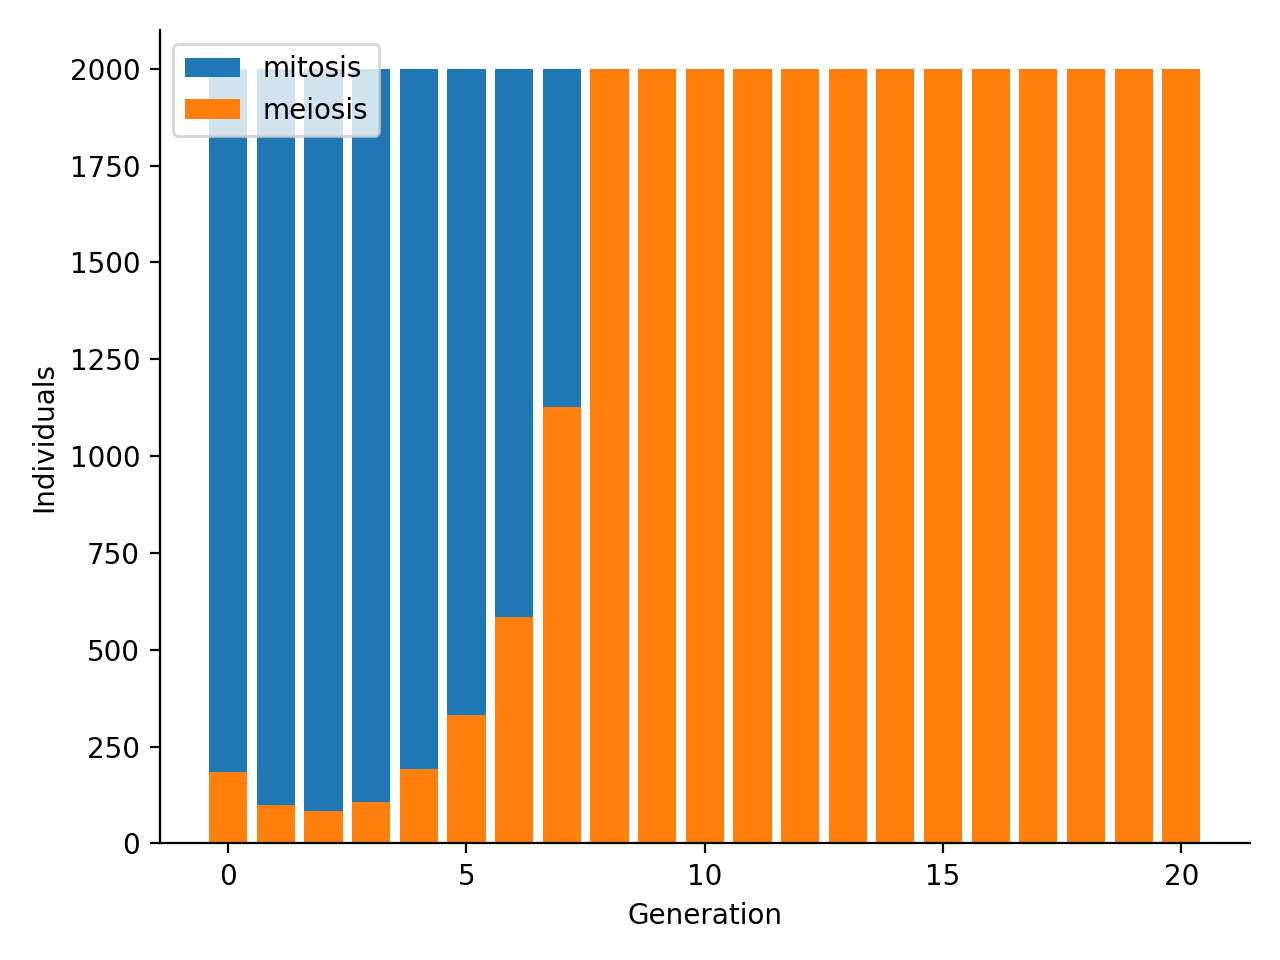
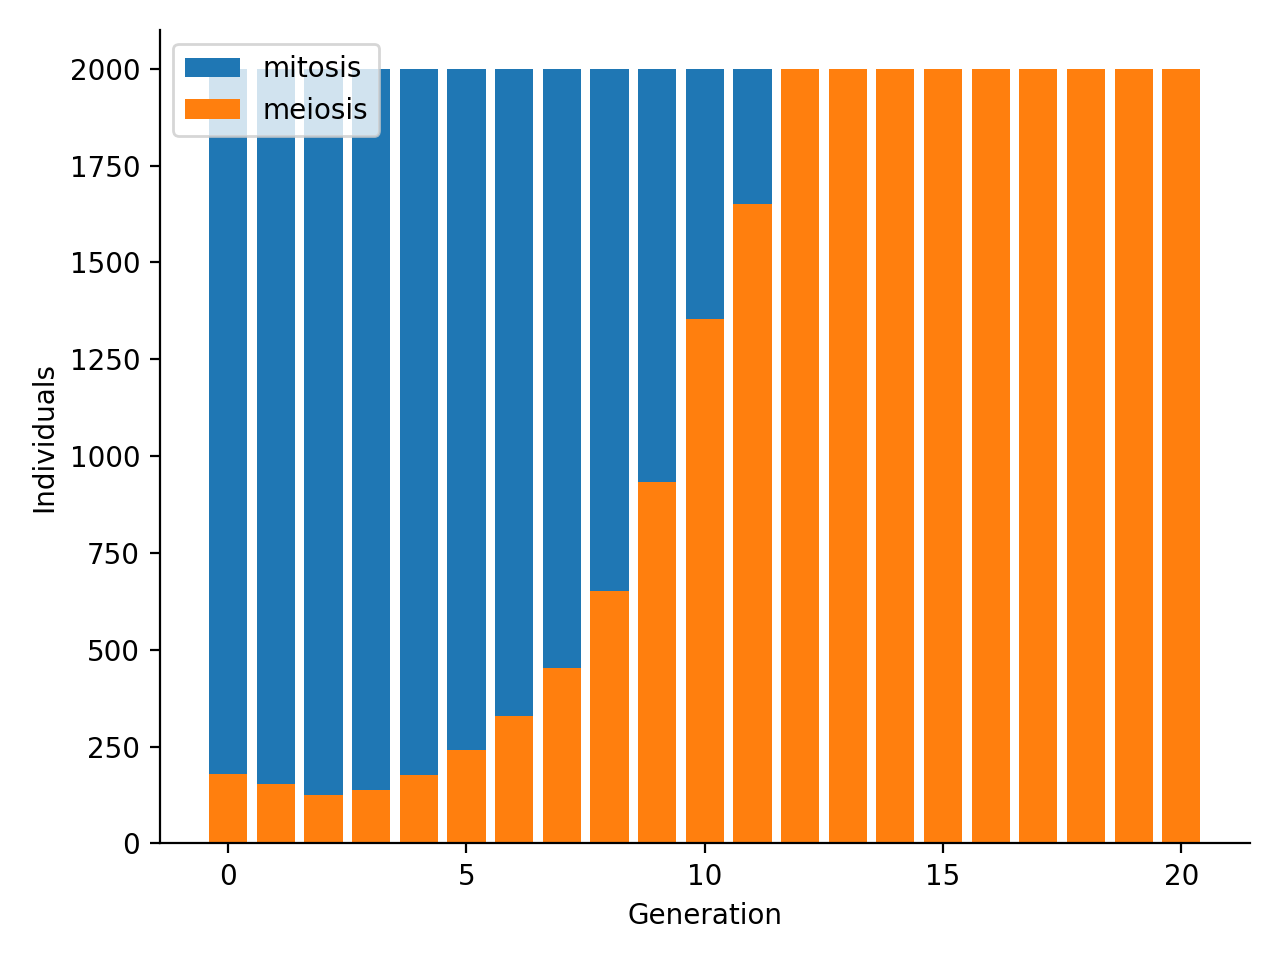
added parameters to simulate the sexual reproduction cost

Changed region(s): [[0.3438, 0.0625, 0.625, 0.7812], [0.1875, 0.8125, 0.3125, 0.8438], [0.3125, 0.7812, 0.3438, 0.8125]]

diff --git a/sim.py b/sim.py
@@ -84,37 +84,44 @@ class Simulation:
     Parameters:
 
         * c: the carrying capacity, i.e. the maximum number of genomes that
-          can be concurrently sustained by the environment
+             can be concurrently sustained by the environment
         * n: number of genes in the evolving Genomes
         * p: ploidy of the evolving Genomes, where p = 2 is a diploid genome.
              In the current version of the software, only p = 2 is allowed
         * s: number of genomes that exist at the start of the simulation
         * h_mean: mean number of genes between two crossing-over points
-          NOTE: the real number will be slightly lower due to the truncation
-          at the end of the chromosome
+                  NOTE: the real number will be slightly lower due to the
+                  truncation at the end of the chromosome
         * h_sd: standard deviation of the number of genes between two
-          crossing-over points
+                crossing-over points
         * x: starting fraction of genomes that can sexually reproduce
         * g: number of generation the simulation will run
         * m: mutation rate, i.e. the probability of an allele to mutate in the
              next generation
+        * q: the number of new individuals that a single mitotic organism will
+             generate when reproducing
+        * u: the number of new individuals that a couple of meiotic organisms
+             will generate when reproducing
     
     The following assumptions hold:
 
         * The genome is constituted by only one chromosome
         * Genes are ordered, meaning that a distance between two genes A and B
           can be calculated in terms of how many genes separate A and B
-        * In the current version of the software, the genes' effects are
-          independent
+        * In the current version of the software, the genes' effects on the
+          fitness are independent
         * In the current version of the software, the effect of allele dosage
           is additive
         * Each gene has two alleles. One allele is supposed to have no effect
           on the fitness, while the other can be beneficial or detrimental
         * A genome is initialized randomly, each gene having a random dosage of
           the alleles
-        * There is no additional cost associated with sexual reproduction
+        * The additional cost associated with sexual reproduction can be
+          simulated by tuning the parameters q and u, affecting how many
+          individuals are generated by an asexual or by a sexual reproduction
+          event, respectively
     '''
-    def __init__(self, c: int, n: int, p: int, s: int, h_mean: int, h_sd: float, x: float, g: int, m: float):
+    def __init__(self, c:int, n:int, p:int, s:int, h_mean:int, h_sd:float, x:float, g:int, m:float, q:int, u:int):
         self.carrying_capacity = c
         self.n_genes = n
         self.ploidy = p
@@ -126,6 +133,8 @@ class Simulation:
         self.start_sex_frac = x
         self.n_generations = g
         self.mutation_rate = m
+        self.n_mitotic_offspring = q
+        self.n_meiotic_offspring = u
 
     def compute_fitness(self, genome):
         f = 0
@@ -161,20 +170,26 @@ class Simulation:
                                               h_sd = self.crossingover_length_sd)
                     parent_b.generate_gametes(h_mean = self.crossingover_length_mean,
                                               h_sd = self.crossingover_length_sd)
-                    # 6. generate 4 new genomes and append them in new_population
-                    shuffled_gametes_idx = [i for i in range(len(parent_a.gametes))]
-                    shuffle(shuffled_gametes_idx)
-                    for g in range(len(shuffled_gametes_idx)):
-                      new_genes = [parent_a.gametes[g], parent_b.gametes[shuffled_gametes_idx[g]]]
-                      new_genome = Genome(n=self.n_genes, p=self.ploidy)
-                      new_genome.meiosis = True
-                      new_genome.genes = new_genes
-                      new_population.append(new_genome)                      
+                    # 6. generate new genomes and append them in new_population
+                    shuffled_gametes_idx_a = [i for i in range(len(parent_a.gametes))]
+                    shuffle(shuffled_gametes_idx_a)
+                    shuffled_gametes_idx_b = [i for i in range(len(parent_b.gametes))]
+                    shuffle(shuffled_gametes_idx_b)
+                    for i in range(self.n_meiotic_offspring):
+                        if len(new_population) < self.carrying_capacity:
+                            new_genes = [parent_a.gametes[shuffled_gametes_idx_a[i]], parent_b.gametes[shuffled_gametes_idx_b[i]]]
+                            new_genome = Genome(n=self.n_genes, p=self.ploidy)
+                            new_genome.meiosis = True
+                            new_genome.genes = new_genes
+                            new_population.append(new_genome)
+                        else:
+                            break                    
             else:
-                new_population.append(parent_a) # duplicate the individual
-                new_population.append(parent_a)
-                new_population.append(parent_a)
-                new_population.append(parent_a)
+                for i in range(self.n_mitotic_offspring):
+                    if len(new_population) < self.carrying_capacity:
+                        new_population.append(parent_a) # duplicate the individual
+                    else:
+                        break
         self.population = new_population
 
     def mutate_genomes(self):
@@ -246,6 +261,8 @@ def main():
     CROSSINGOVER_LENGTH_SD = 1
     START_FRAC_SEX_GENOMES = 0.1
     N_GENERATIONS = 20
+    N_MITOTIC_OFFSPRING = 2
+    N_MEIOTIC_OFFSPRING = 3
 
     sim = Simulation(
         c=CARRYING_CAPACITY,
@@ -256,7 +273,9 @@ def main():
         h_sd=CROSSINGOVER_LENGTH_SD,
         x=START_FRAC_SEX_GENOMES,
         g=N_GENERATIONS,
-        m=MUTATION_RATE
+        m=MUTATION_RATE,
+        q=N_MITOTIC_OFFSPRING,
+        u=N_MEIOTIC_OFFSPRING
     )
     
     sim.start(complete_history=True)

diff --git a/README.md b/README.md
@@ -13,6 +13,8 @@ CROSSINGOVER_LENGTH_MEAN = 10
 CROSSINGOVER_LENGTH_SD = 1
 START_FRAC_SEX_GENOMES = 0.1
 N_GENERATIONS = 20
+N_MITOTIC_OFFSPRING = 2
+N_MEIOTIC_OFFSPRING = 3
 ```
 
 Run simulation:
@@ -27,13 +29,22 @@ sim = Simulation(
         h_sd=CROSSINGOVER_LENGTH_SD,
         x=START_FRAC_SEX_GENOMES,
         g=N_GENERATIONS,
-        m=MUTATION_RATE
+        m=MUTATION_RATE,
+        q=N_MITOTIC_OFFSPRING,
+        u=N_MEIOTIC_OFFSPRING
     )
     
 sim.start()
 sim.plot_counts('counts.png')
+sim.plot_generations('generations.png')
 ```
 
 ![](counts.png)
 
 ![](generations.png)
+
+## TODO
+
+- [ ] support the occurrence of changes in gene effects on fitness over time to simulate change in fitness landscape due to drastic sudden changes in the environment
+- [ ] run multiple simulations and report stats
+- [ ] support interactions between gene effects
